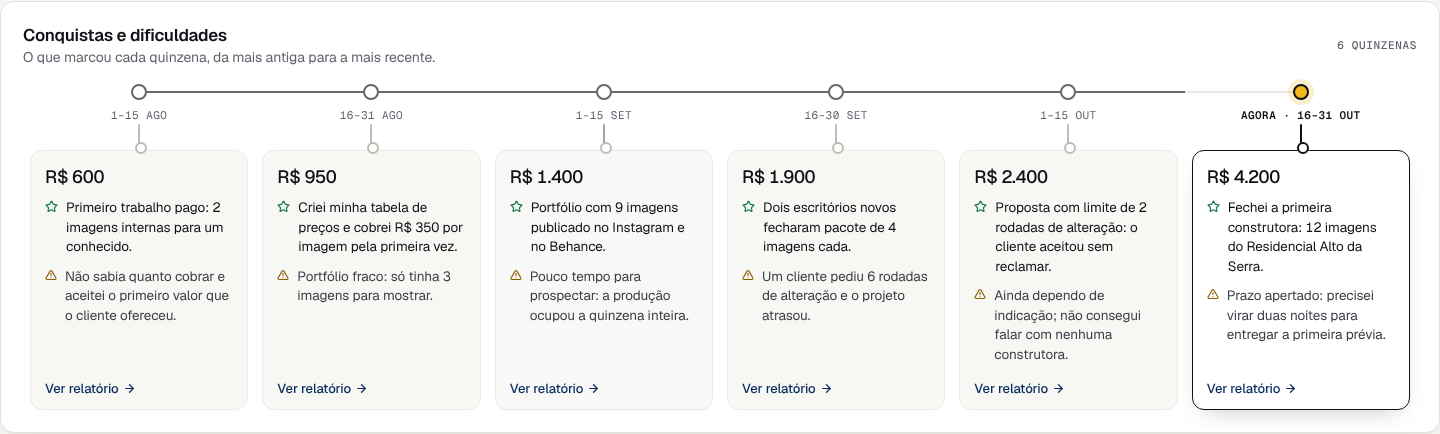
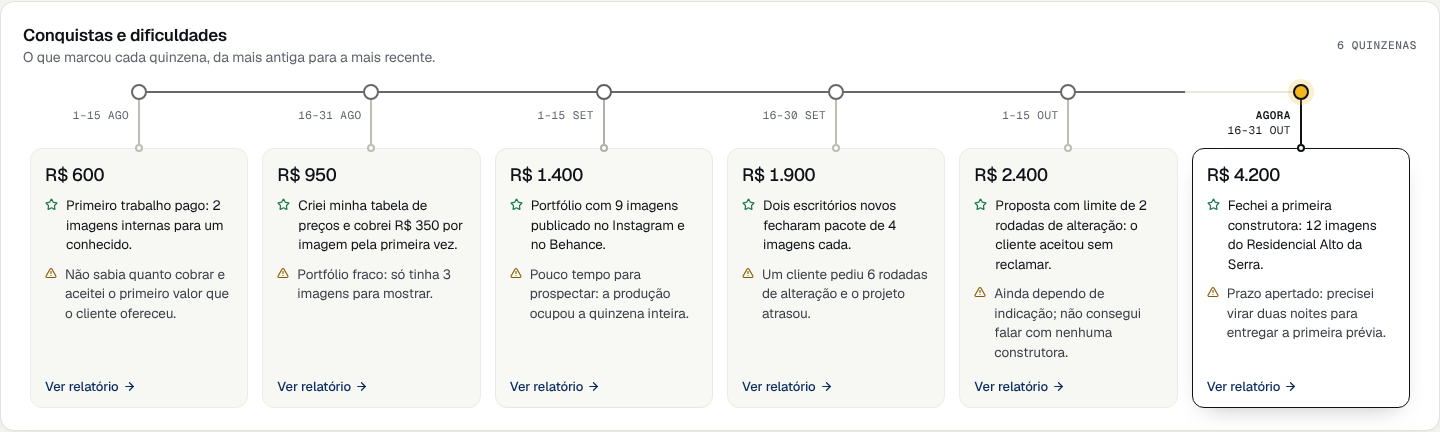
Linha do tempo: ligação contínua do ponto ao cartão e data ao lado esquerdo
Claude-Session: https://claude.ai/code/session_01X1TqGYnSSrriidCVufAaPq

diff --git a/src/styles.css b/src/styles.css
@@ -316,24 +316,27 @@ a.rep-row:hover { text-decoration: none; background: var(--alt); }
 .timeline-h:focus-visible { outline-offset: -2px; }
 .tl-track { display: grid; grid-auto-flow: column; grid-auto-columns: minmax(205px, 1fr); }
 .tl-col { display: flex; flex-direction: column; padding: 0 7px; }
-/* Trilho: cada coluna desenha sua metade da linha, para ela ser contínua de ponto a ponto */
-.tl-node { position: relative; height: 40px; display: flex; flex-direction: column; align-items: center; justify-content: flex-start; }
-.tl-node::before { content: ''; position: absolute; top: 7px; left: -7px; right: -7px; height: 2px; background: var(--alt3); }
-.tl-col:first-child .tl-node::before { left: 50%; }
-.tl-col:last-child .tl-node::before { right: 50%; }
-.tl-col.past .tl-node::before { background: color-mix(in oklab, var(--ink) 55%, var(--alt3)); }
-.tl-dot { position: relative; z-index: 1; width: 16px; height: 16px; border-radius: 50%; background: #fff; border: 2px solid color-mix(in oklab, var(--ink) 55%, var(--alt3)); }
+/* Trilho horizontal: cada coluna desenha sua parte, para a linha ser contínua de ponto a ponto */
+.tl-head { position: relative; height: 64px; }
+.tl-head::before { content: ''; position: absolute; top: 7px; left: -7px; right: -7px; height: 2px; background: var(--alt3); }
+.tl-col:first-child .tl-head::before { left: 50%; }
+.tl-col:last-child .tl-head::before { right: 50%; }
+.tl-col.past .tl-head::before { background: color-mix(in oklab, var(--ink) 55%, var(--alt3)); }
+/* Ponto no trilho */
+.tl-dot { position: absolute; z-index: 1; top: 0; left: 50%; margin-left: -8px; width: 16px; height: 16px; border-radius: 50%; background: #fff; border: 2px solid color-mix(in oklab, var(--ink) 55%, var(--alt3)); transition: border-color .15s; }
 .tl-col.now .tl-dot { background: var(--gold); border-color: var(--ink); box-shadow: 0 0 0 5px rgba(242,183,31,.22); }
-.tl-when { margin-top: 8px; position: relative; z-index: 1; font-family: var(--mono); font-size: 11px; letter-spacing: .04em; text-transform: uppercase; color: var(--t3); white-space: nowrap; }
-.tl-col.now .tl-when { color: var(--t); font-weight: 600; }
-/* Haste que liga a data ao cartão */
-.tl-stem { position: relative; height: 26px; display: flex; justify-content: center; }
-.tl-stem::before { content: ''; width: 2px; border-radius: 1px; height: 100%; background: var(--b-dash); transition: background .15s; }
-.tl-stem::after { content: ''; position: absolute; bottom: -4px; left: 50%; width: 8px; height: 8px; margin-left: -4px; border-radius: 50%; background: #fff; border: 2px solid var(--b-dash); transition: background .15s; }
-.tl-col.now .tl-stem::before, .tl-col:hover .tl-stem::before { background: var(--ink); }
-.tl-col.now .tl-stem::after, .tl-col:hover .tl-stem::after { border-color: var(--ink); }
-.tl-col:hover .tl-dot { border-color: var(--ink); }
-.tl-col:hover .tl-when { color: var(--t); }
+/* Linha vertical contínua: do ponto até o pino no topo do cartão */
+.tl-line { position: absolute; top: 16px; bottom: 4px; left: 50%; width: 2px; margin-left: -1px; background: var(--b-dash); transition: background .15s; }
+.tl-pin { position: absolute; z-index: 1; bottom: -4px; left: 50%; margin-left: -4px; width: 8px; height: 8px; border-radius: 50%; background: #fff; border: 2px solid var(--b-dash); transition: border-color .15s; }
+.tl-col.now .tl-line, .tl-col:hover .tl-line { background: var(--ink); }
+.tl-col.now .tl-pin, .tl-col:hover .tl-pin, .tl-col:hover .tl-dot { border-color: var(--ink); }
+/* Data ao lado esquerdo da linha vertical */
+.tl-when {
+  position: absolute; top: 24px; right: calc(50% + 10px); max-width: calc(50% - 14px);
+  text-align: right; font-family: var(--mono); font-size: 11px; line-height: 1.35; letter-spacing: .04em; text-transform: uppercase; color: var(--t3);
+}
+.tl-when b { display: block; font-weight: 600; color: var(--t); }
+.tl-col.now .tl-when, .tl-col:hover .tl-when { color: var(--t); }
 .tl-col.past:hover .tl-card { border-color: var(--b-btn); background: #fff; }
 .tl-card { flex: 1; margin-top: 0; display: flex; flex-direction: column; gap: 10px; padding: 14px 14px 12px; border-radius: 12px; background: var(--alt); border: 1px solid var(--b-div); transition: border-color .15s, background .15s; }
 .tl-col.now .tl-card { background: #fff; border-color: var(--ink); box-shadow: 0 10px 24px -14px rgba(14,17,22,.35); }

diff --git a/src/pages/Relatorios.tsx b/src/pages/Relatorios.tsx
@@ -126,11 +126,15 @@ function Journey({ reps }: { reps: Report[] }) {
             const last = i === items.length - 1;
             return (
               <div key={r.id} className={'tl-col' + (last ? ' now' : ' past')}>
-                <div className="tl-node">
+                <div className="tl-head" aria-hidden={false}>
                   <span className="tl-dot" />
-                  <span className="tl-when">{last ? 'Agora · ' : ''}{fmtPeriod(r.period_start, r.period_end)}</span>
+                  <span className="tl-line" />
+                  <span className="tl-pin" />
+                  <span className="tl-when">
+                    {last && <b>Agora</b>}
+                    {fmtPeriod(r.period_start, r.period_end)}
+                  </span>
                 </div>
-                <div className="tl-stem" aria-hidden />
                 <div className="tl-card">
                   <div className="tl-rev">{fmtBRL(r.revenue)}</div>
                   {r.wins && (
